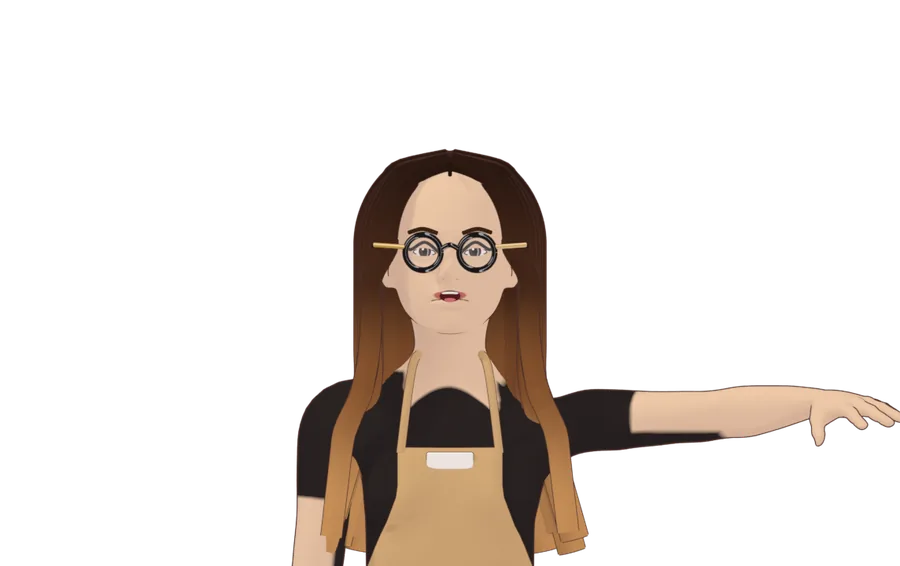
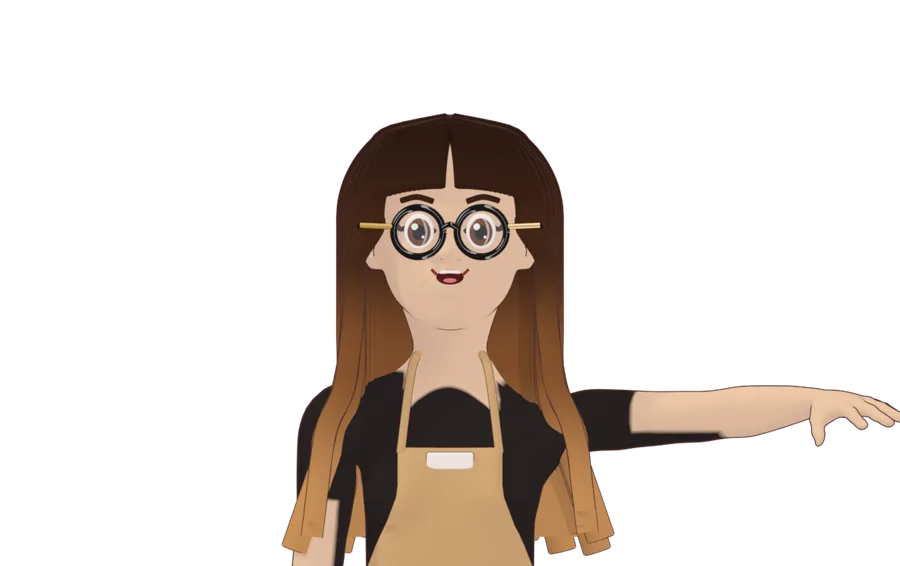
Helper: cartoon face (big eyes, bangs, wide smile, shorter chin), cleaner mouth and glasses (#18)

Changed region(s): [[0.3111, 0.1802, 0.6844, 0.9912]]

diff --git a/index.html b/index.html
@@ -16,16 +16,16 @@
 <link rel="icon" href="assets/favicon-64.png" type="image/png" sizes="64x64">
 <link rel="apple-touch-icon" href="assets/apple-touch-icon.png">
 <!-- the fonts are inside the game (issue #27), so it looks the same offline -->
-<link rel="stylesheet" href="assets/fonts/fonts.css?v=32">
-<link rel="stylesheet" href="style.css?v=32">
-<link rel="stylesheet" href="css/scene.css?v=32">
-<link rel="stylesheet" href="css/fx.css?v=32">
-<link rel="stylesheet" href="css/views.css?v=32">
-<link rel="stylesheet" href="css/bar.css?v=32">
-<link rel="stylesheet" href="css/theme.css?v=32">
-<link rel="stylesheet" href="css/helper.css?v=32">
-<link rel="stylesheet" href="css/stage.css?v=32">
-<link rel="stylesheet" href="css/intro.css?v=32">
+<link rel="stylesheet" href="assets/fonts/fonts.css?v=33">
+<link rel="stylesheet" href="style.css?v=33">
+<link rel="stylesheet" href="css/scene.css?v=33">
+<link rel="stylesheet" href="css/fx.css?v=33">
+<link rel="stylesheet" href="css/views.css?v=33">
+<link rel="stylesheet" href="css/bar.css?v=33">
+<link rel="stylesheet" href="css/theme.css?v=33">
+<link rel="stylesheet" href="css/helper.css?v=33">
+<link rel="stylesheet" href="css/stage.css?v=33">
+<link rel="stylesheet" href="css/intro.css?v=33">
 </head>
 <body>
 
@@ -81,8 +81,8 @@
     <div class="ticketslot" id="sceneTicket"></div>
   </div>
   <!-- upgrades on show (issue #21): comfy stools on the guests' side of the bar, the big tip jar on it -->
-  <div class="upg-show stools" aria-hidden="true"><img class="spr" src="assets/models/stool.webp?v=32" width="84" height="180" alt="" draggable="false"><img class="spr" src="assets/models/stool.webp?v=32" width="84" height="180" alt="" draggable="false"></div>
-  <img class="upg-show tipjar spr" src="assets/models/tipjar.webp?v=32" width="109" height="160" alt="" aria-hidden="true" draggable="false">
+  <div class="upg-show stools" aria-hidden="true"><img class="spr" src="assets/models/stool.webp?v=33" width="84" height="180" alt="" draggable="false"><img class="spr" src="assets/models/stool.webp?v=33" width="84" height="180" alt="" draggable="false"></div>
+  <img class="upg-show tipjar spr" src="assets/models/tipjar.webp?v=33" width="109" height="160" alt="" aria-hidden="true" draggable="false">
   <!-- the finished drink waits on a tray on the bar; drop it on the customer (#custZone follows them) -->
   <div class="cust-tray" id="custTray"><div class="slot cupslot handslot" id="slotHand"></div></div>
   <div class="cust-zone" id="custZone" data-drop="customer" hidden></div>
@@ -235,8 +235,8 @@
       <div class="cupinfo" id="cupInfo"></div>
       <!-- the recipe shop's drinks (issue #21): on the bench once bought -->
       <div class="extras" id="extras">
-        <div class="obj icebucket" id="iceObj" role="button" tabindex="0" data-drag="ice"><img class="spr" src="assets/models/icebucket.webp?v=32" width="191" height="220" alt="" draggable="false"><small class="objtag" data-t="obj.ice">Ice</small></div>
-        <div class="obj cocoatin" id="cocoaObj" role="button" tabindex="0" data-drag="cocoa"><img class="spr" src="assets/models/cocoatin.webp?v=32" width="119" height="172" alt="" draggable="false"><small class="objtag" data-t="obj.cocoa">Cocoa</small></div>
+        <div class="obj icebucket" id="iceObj" role="button" tabindex="0" data-drag="ice"><img class="spr" src="assets/models/icebucket.webp?v=33" width="191" height="220" alt="" draggable="false"><small class="objtag" data-t="obj.ice">Ice</small></div>
+        <div class="obj cocoatin" id="cocoaObj" role="button" tabindex="0" data-drag="cocoa"><img class="spr" src="assets/models/cocoatin.webp?v=33" width="119" height="172" alt="" draggable="false"><small class="objtag" data-t="obj.cocoa">Cocoa</small></div>
       </div>
     </section>
 
@@ -343,19 +343,19 @@
 <!-- phones held upright (issue #14): the game is played sideways -->
 <div class="rotate-ov" id="rotateOv"><div><div class="phone" aria-hidden="true"></div><p data-t="rotate">Turn your phone sideways to play</p></div></div>
 
-<script src="js/intro.js?v=32"></script>
-<script src="js/util.js?v=32"></script>
-<script src="js/economy.js?v=32"></script>
-<script src="js/i18n.js?v=32"></script>
-<script src="js/audio.js?v=32"></script>
-<script src="js/recipe.js?v=32"></script>
-<script src="js/render.js?v=32"></script>
-<script src="js/scene.js?v=32"></script>
-<script src="js/fx.js?v=32"></script>
-<script src="js/station.js?v=32"></script>
-<script src="js/camera.js?v=32"></script>
-<script src="js/helper.js?v=32"></script>
-<script src="js/tutorial.js?v=32"></script>
-<script src="js/main.js?v=32"></script>
+<script src="js/intro.js?v=33"></script>
+<script src="js/util.js?v=33"></script>
+<script src="js/economy.js?v=33"></script>
+<script src="js/i18n.js?v=33"></script>
+<script src="js/audio.js?v=33"></script>
+<script src="js/recipe.js?v=33"></script>
+<script src="js/render.js?v=33"></script>
+<script src="js/scene.js?v=33"></script>
+<script src="js/fx.js?v=33"></script>
+<script src="js/station.js?v=33"></script>
+<script src="js/camera.js?v=33"></script>
+<script src="js/helper.js?v=33"></script>
+<script src="js/tutorial.js?v=33"></script>
+<script src="js/main.js?v=33"></script>
 </body>
 </html>

diff --git a/sw.js b/sw.js
@@ -2,18 +2,18 @@
    too. The page itself is fetched from the network first (so a new version shows up at once) and from the cache when
    offline; everything else comes from the cache and is fetched only the first time. Bump VERSION with every release
    (together with the ?v= on the links in index.html): the old cache is then dropped. */
-const VERSION = 'cafe-cb-32';
+const VERSION = 'cafe-cb-33';
 const CORE = [
-  './', 'index.html', 'manifest.webmanifest', 'style.css?v=32',
-  'css/scene.css?v=32', 'css/fx.css?v=32', 'css/views.css?v=32', 'css/bar.css?v=32', 'css/theme.css?v=32', 'css/helper.css?v=32', 'css/stage.css?v=32', 'css/intro.css?v=32',
-  'js/intro.js?v=32', 'js/util.js?v=32', 'js/economy.js?v=32', 'js/i18n.js?v=32', 'js/audio.js?v=32', 'js/recipe.js?v=32', 'js/render.js?v=32', 'js/scene.js?v=32', 'js/fx.js?v=32',
-  'js/station.js?v=32', 'js/camera.js?v=32', 'js/helper.js?v=32', 'js/tutorial.js?v=32', 'js/main.js?v=32',
+  './', 'index.html', 'manifest.webmanifest', 'style.css?v=33',
+  'css/scene.css?v=33', 'css/fx.css?v=33', 'css/views.css?v=33', 'css/bar.css?v=33', 'css/theme.css?v=33', 'css/helper.css?v=33', 'css/stage.css?v=33', 'css/intro.css?v=33',
+  'js/intro.js?v=33', 'js/util.js?v=33', 'js/economy.js?v=33', 'js/i18n.js?v=33', 'js/audio.js?v=33', 'js/recipe.js?v=33', 'js/render.js?v=33', 'js/scene.js?v=33', 'js/fx.js?v=33',
+  'js/station.js?v=33', 'js/camera.js?v=33', 'js/helper.js?v=33', 'js/tutorial.js?v=33', 'js/main.js?v=33',
   'assets/favicon-64.png', 'assets/icon-192.png', 'assets/icon-512.png', 'assets/icon-512-any.png', 'assets/apple-touch-icon.png',
   'assets/cover/logo-menu.webp', 'assets/intro/cup.webp', 'assets/intro/text.webp',
   ...['talk', 'wave', 'cheer', 'warn'].map(f => `assets/helper/${f}.webp`), ...['talk', 'wave', ...['L', 'R'].flatMap(x => ['down', 'level', 'up'].map(h => `point-${x}-${h}`))].map(f => `assets/helper/${f}-open.webp`),
   ...['L', 'R'].flatMap(x => ['down', 'level', 'up'].map(h => `assets/helper/point-${x}-${h}.webp`)),
   'assets/backbar.svg', 'assets/bg-seating.svg', 'assets/bg-wall.svg',
-  'assets/fonts/fonts.css?v=32', ...['courier-prime-400', 'courier-prime-700', 'grandstander-500-800', 'nunito-400-800', 'pacifico-400']
+  'assets/fonts/fonts.css?v=33', ...['courier-prime-400', 'courier-prime-700', 'grandstander-500-800', 'nunito-400-800', 'pacifico-400']
     .flatMap(f => [`assets/fonts/${f}-latin.woff2`, `assets/fonts/${f}-latin-ext.woff2`]),
   ...['bell', 'bin', 'binlid', 'cup-L', 'cup-M', 'cup-S', 'cust-beard', 'cust-collar-round', 'cust-collar-v', 'cust-hair-bun-front',
     'cust-hair-curly-back', 'cust-hair-curly-front', 'cust-hair-long-back', 'cust-hair-long-front', 'cust-hair-short-front',

diff --git a/tools/blender/helper_style.py b/tools/blender/helper_style.py
@@ -79,12 +79,14 @@ def body_A():
 
 
 def eyeball(name, c, r):
-    """a whole eyeball sitting in a MakeHuman eye socket: the iris is on its front"""
-    sphere(name + 'w', r, toon('sclera', '#fbf7f2', lo=0.85), loc=c, outline=0.0, segs=32)
-    f = c.y - r * 0.93
-    sphere(name + 'i', 1.0, toon('iris', '#5a3420', 'gloss', lo=0.7), loc=(c.x, f, c.z), scale=(r * 0.56, r * 0.14, r * 0.56), outline=0.0)
-    sphere(name + 'p', 1.0, toon('pupil', '#1a0f0b', lo=1.0), loc=(c.x, f - r * 0.08, c.z), scale=(r * 0.27, r * 0.1, r * 0.27), outline=0.0)
-    sphere(name + 'h', 1.0, toon('hi', '#ffffff', 'flat', lo=1.0), loc=(c.x - r * 0.18, f - r * 0.16, c.z + r * 0.2), scale=(r * 0.1, r * 0.04, r * 0.1), outline=0.0)
+    """a big cartoon eye on the face (c is on the skin): a tall white oval, a large dark-brown iris, a pupil, two catch lights"""
+    ry = r * 0.28
+    sphere(name + 'w', 1.0, toon('sclera', '#fffaf4', lo=0.92), loc=(c.x, c.y - 0.1, c.z), scale=(r * 1.05, ry, r * 1.25), outline=0.0, segs=32)
+    f = c.y - 0.1 - ry * 0.85
+    sphere(name + 'i', 1.0, toon('iris', '#7a4528', 'gloss', lo=0.8), loc=(c.x, f, c.z - r * 0.08), scale=(r * 0.82, ry * 0.5, r * 0.98), outline=0.0)
+    sphere(name + 'p', 1.0, toon('pupil', '#1b0f0b', lo=1.0), loc=(c.x, f - ry * 0.25, c.z - r * 0.1), scale=(r * 0.5, ry * 0.4, r * 0.6), outline=0.0)
+    sphere(name + 'h', 1.0, toon('hi', '#ffffff', 'flat', lo=1.0), loc=(c.x - r * 0.3, f - ry * 0.5, c.z + r * 0.3), scale=(r * 0.24, ry * 0.2, r * 0.24), outline=0.0)
+    sphere(name + 'h2', 1.0, toon('hi', '#ffffff', 'flat', lo=1.0), loc=(c.x + r * 0.28, f - ry * 0.5, c.z - r * 0.42), scale=(r * 0.1, ry * 0.2, r * 0.1), outline=0.0)
 
 
 def eye(name, x, z, y, r, look=(0, 0)):
@@ -167,13 +169,20 @@ def body_B():
     for i in body_ids:
         P[i] = armdown(P[i])
     # a slightly bigger head (cute proportions), grown from the neck
-    hk = 1.1
+    hk = 1.3
     for i in body_ids:
         p = P[i]
         if p.z > neck.z + 2:
             t = min(1.0, (p.z - neck.z - 2) / 4.0)
             f = 1 + (hk - 1) * t
-            P[i] = Vector((p.x * f * (1 + 0.09 * t), (p.y - neck.y) * f + neck.y, (p.z - neck.z) * f + neck.z))
+            P[i] = Vector((p.x * f * (1 + 0.14 * t), (p.y - neck.y) * f + neck.y, (p.z - neck.z) * f + neck.z))
+    # a shorter lower face: points between the neck and the eyes move up toward the eyes, so the chin is closer
+    ezs = neck.z + (eyeL.z - neck.z) * hk
+    for i in body_ids:
+        p = P[i]
+        if neck.z + 2 < p.z < ezs:
+            u = (p.z - neck.z - 2) / (ezs - neck.z - 2); u = u * u * (3 - 2 * u)
+            P[i] = Vector((p.x, p.y, p.z + 0.16 * (ezs - p.z) * u))
     me = bpy.data.meshes.new('mh'); bm = bmesh.new()
     idx = {}
     for i in sorted(body_ids):
@@ -201,20 +210,24 @@ def body_B():
     # eyes in the sockets (scaled the same way as the head)
     def headpt(p):
         t = min(1.0, max(0.0, (p.z - neck.z - 2) / 4.0)); f = 1 + (hk - 1) * t
-        return Vector((p.x * f * (1 + 0.09 * t), (p.y - neck.y) * f + neck.y, (p.z - neck.z) * f + neck.z))
+        return Vector((p.x * f * (1 + 0.14 * t), (p.y - neck.y) * f + neck.y, (p.z - neck.z) * f + neck.z))
     eL, eR = headpt(eyeL), headpt(eyeR)
     r = 1.22 * hk
     bvh = BVHTree.FromObject(o, bpy.context.evaluated_depsgraph_get())
     lid = toon('lid', '#3a2318', lo=1.0); brow = toon('brow', '#3f2619', lo=0.8)
     for s, e in ((1, eL), (-1, eR)):
-        eyeball("eye" + str(s), e, 1.4 * hk)
         def onface(x, z, off=0.25):
             hit = bvh.ray_cast(Vector((x, -60, z)), Vector((0, 1, 0)))
             return (x, (hit[0].y if hit[0] else e.y - 1) - off, z)
-        tube('lid', smooth_curve([onface(e.x - s * 1.7 * hk, e.z - 0.1, 0.05), onface(e.x, e.z + 1.15 * hk, 0.15), onface(e.x + s * 1.75 * hk, e.z + 0.25, 0.1), onface(e.x + s * 2.3 * hk, e.z + 0.75, 0.1)], 6), 0.22, lid, outline=0)
-        tube('brow', smooth_curve([onface(e.x - s * 1.7, e.z + 2.5 + BROW), onface(e.x + s * 0.3, e.z + 3.1 + BROW * 0.5), onface(e.x + s * 2.2, e.z + 2.6 - BROW * 0.3)], 6), 0.3, brow, outline=0)
+        ring = [bvh.ray_cast(Vector((e.x + 2.6 * math.cos(a), -60, e.z + 2.6 * math.sin(a))), Vector((0, 1, 0)))[0] for a in [k * math.pi / 4 for k in range(8)]]
+        fy_ = min(h.y for h in ring if h) if any(ring) else e.y
+        eyeball("eye" + str(s), Vector((e.x, fy_ - 0.15, e.z)), 1.95)
+        tube('lid', smooth_curve([onface(e.x - s * 1.7 * hk, e.z - 0.1, 0.05), onface(e.x, e.z + 1.15 * hk, 0.15), onface(e.x + s * 1.75 * hk, e.z + 0.25, 0.1), onface(e.x + s * 2.3 * hk, e.z + 0.75, 0.1)], 6), 0.34, lid, outline=0)
+        tube('brow', smooth_curve([onface(e.x - s * 1.9, e.z + 4.1 + BROW), onface(e.x + s * 0.3, e.z + 4.7 + BROW * 0.5), onface(e.x + s * 2.4, e.z + 4.2 - BROW * 0.3)], 6), 0.42, brow, outline=0)
         bl = onface(s * (abs(e.x) + 1.3), e.z - 3.6, -0.05)
-        sphere('blush', 1.0, toon('blush', '#f2948a', alpha=0.0, edge=0.45), loc=bl, scale=(1.5, 0.22, 0.85), outline=0)
+        sphere('blush', 1.0, toon('blush', '#f2948a', alpha=0.0, edge=0.45), loc=bl, scale=(2.1, 0.22, 1.2), outline=0)
+    cx_, cy_, cz_ = onface(0, mz - 1.6, 0.0)
+    sphere('chinpatch', 1.0, toon('chinpatch', SKIN, lo=0.72), loc=(cx_, cy_ + 0.05, cz_ + 0.2), scale=(3.3, 0.25, 1.4), outline=0)
     mouth(onface, mz)
     # landmarks for the shared parts
     zs = [P[i].z for i in body_ids if P[i].z > neck.z]
@@ -236,19 +249,22 @@ BROW = 0.0        # tilts the inner ends of the brows up (worried) or down
 
 
 def mouth(onface, mz):
-    ink = toon('lipline', '#a9524c', lo=0.9)
-    if MOUTH == 'smile':       # a soft closed smile along the lips
-        tube('smile', smooth_curve([onface(-1.55, mz + 0.3, 0.05), onface(0, mz - 0.12, 0.12), onface(1.55, mz + 0.3, 0.05)], 8), 0.15, ink, outline=0)
-    elif MOUTH == 'open':      # an open, laughing mouth with a little tongue
-        x, y, z = onface(0, mz - 0.2, -0.05)
-        sphere('mouth', 1.0, toon('mouthin', '#5b1d22', lo=1.0), loc=(x, y + 0.05, z + 0.1), scale=(1.45, 0.3, 0.8), outline=0)
-        sphere('teeth', 1.0, toon('teeth', '#fbf6ee', lo=0.9), loc=(x, y - 0.12, z + 0.5), scale=(1.15, 0.12, 0.22), outline=0)
-        sphere('tongue', 1.0, toon('tongue', '#e07a7a', lo=0.8), loc=(x, y - 0.1, z - 0.35), scale=(0.8, 0.16, 0.32), outline=0)
+    ink = toon('lipline', '#8a3a3a', lo=0.9)
+    if MOUTH == 'smile':       # a wide, happy curve
+        tube('smile', smooth_curve([onface(-2.3, mz + 0.55, 0.05), onface(-1.0, mz - 0.1, 0.1), onface(1.0, mz - 0.1, 0.1), onface(2.3, mz + 0.55, 0.05)], 10), 0.24, ink, outline=0)
+    elif MOUTH == 'open':      # an open laugh: a dark D with teeth and a tongue
+        x, y, z = onface(0, mz - 0.1, -0.08)
+        sphere('mouth', 1.0, toon('mouthin', '#5b1d22', lo=1.0), loc=(x, y + 0.05, z - 0.1), scale=(1.9, 0.3, 1.05), outline=0)
+        sphere('teeth', 1.0, toon('teeth', '#fffaf2', lo=0.95), loc=(x, y - 0.1, z + 0.55), scale=(1.55, 0.12, 0.34), outline=0)
+        sphere('tongue', 1.0, toon('tongue', '#ec8484', lo=0.85), loc=(x, y - 0.12, z - 0.5), scale=(1.0, 0.16, 0.38), outline=0)
+        tube('corners', smooth_curve([onface(-2.5, mz + 0.8, 0.05), onface(-1.9, mz + 0.2, 0.08)], 4), 0.2, ink, outline=0)
+        tube('corners', smooth_curve([onface(2.5, mz + 0.8, 0.05), onface(1.9, mz + 0.2, 0.08)], 4), 0.2, ink, outline=0)
     elif MOUTH == 'o':         # a small worried "o"
-        x, y, z = onface(0, mz - 0.1, -0.05)
-        sphere('mouth', 1.0, toon('mouthin', '#5b1d22', lo=1.0), loc=(x, y + 0.05, z), scale=(0.75, 0.3, 0.7), outline=0)
+        x, y, z = onface(0, mz - 0.1, -0.08)
+        sphere('mouth', 1.0, toon('mouthin', '#5b1d22', lo=1.0), loc=(x, y + 0.05, z), scale=(0.95, 0.3, 0.9), outline=0)
+        sphere('tongue', 1.0, toon('tongue', '#ec8484', lo=0.85), loc=(x, y - 0.1, z - 0.3), scale=(0.55, 0.14, 0.3), outline=0)
     else:                      # a flat line
-        tube('flat', smooth_curve([onface(-1.3, mz, 0.05), onface(0, mz - 0.05, 0.1), onface(1.3, mz, 0.05)], 6), 0.15, ink, outline=0)
+        tube('flat', smooth_curve([onface(-1.5, mz, 0.05), onface(0, mz - 0.05, 0.1), onface(1.5, mz, 0.05)], 6), 0.2, ink, outline=0)
 
 
 def make_rig(o, order, P0, faces, armdown):
@@ -351,7 +367,7 @@ def body_mat(sh, mz, lip_y, neck_z):
     bare_arm = op('MAXIMUM', bare_arm, step(hn.outputs['Fac'], 0.5, 0.2))
     top = op('MULTIPLY', below, op('SUBTRACT', 1.0, bare_arm))
     # lips: an ellipse on the front of the face
-    ex = op('DIVIDE', X, 2.25); ez = op('DIVIDE', op('SUBTRACT', Z, mz), 0.62)
+    ex = op('DIVIDE', X, 1.9); ez = op('DIVIDE', op('SUBTRACT', Z, mz), 0.5)
     d = op('ADD', op('MULTIPLY', ex, ex), op('MULTIPLY', ez, ez))
     lips = op('MULTIPLY', op('SUBTRACT', 1.0, step(d, 1.0, 0.15)), op('SUBTRACT', 1.0, step(Y, lip_y, 0.3)))
     def mix(fac, a, b):
@@ -363,7 +379,7 @@ def body_mat(sh, mz, lip_y, neck_z):
                 L.new(v, n.inputs[k])
         return n.outputs[0]
     c = mix(top, srgb(SKIN) + (1,), srgb(TOP) + (1,))
-    c = mix(lips, c, srgb('#cf6f6a') + (1,))
+    c = mix(lips, c, srgb('#ec9a90') + (1,))
     L.new(c, mul.inputs[2])
     return m
 
@@ -411,9 +427,24 @@ def hair(H):
                 y = y0 + 0.08 * drop
             pts.append((x, y, z))
         locks.append(tube('lock', smooth_curve(pts, 4), 1.45 if front else 1.9, m, outline=0.1))
+    # bangs: locks from the part, over the forehead, swept to the sides above the brows
+    for j in range(24):
+        u = (j + 0.5) / 24
+        sd = -1 if u < 0.5 else 1
+        bb = (u if u < 0.5 else 1 - u) * 2
+        theta = sd * (0.1 + bb * 0.75)
+        z_end = H['eye_z'] + 6.2 - 1.4 * bb * bb
+        pts = []
+        for t in range(9):
+            z = top + 0.3 - t * (top + 0.3 - z_end) / 8
+            x, y = head_surf(theta, z, 0.85 + 0.15 * bb)
+            if t == 0:
+                x = sd * 0.3
+            pts.append((x, y, z))
+        tube('bang', smooth_curve(pts, 4), 1.0, m, outline=0.08)
     # a cap under the locks so no scalp shows between them
-    cap = sphere('cap', 1.0, m, loc=(0, cy + 0.6, cz + 0.2), scale=(rx + 0.7, ry + 0.9, top - cz + 0.7), outline=0.1, segs=64)
-    M.keep(cap, lambda x, y, z: (z > H['eye_z'] + 6.0 - 0.07 * x * x or y > cy - 1.0) and z > H['eye_z'] - 1.5)
+    cap = sphere('cap', 1.0, m, loc=(0, cy - 0.5, cz + 0.2), scale=(rx + 0.9, ry + 2.3, top - cz + 0.9), outline=0.1, segs=64)
+    M.keep(cap, lambda x, y, z: (z > H['eye_z'] + 7.4 - 0.1 * x * x or y > cy - 1.0) and z > H['eye_z'] - 1.5)
     # long hair hanging down the back, seen between the neck and the side locks
     back = bpy.data.meshes.new('back'); bm = bmesh.new(); rows = []
     for zi in range(11):
@@ -433,18 +464,18 @@ def glasses(H):
     ez, ex, fy = H['eye_z'], H['eye_x'], H['face_y']
     fr = toon('frame', FRAMEC, 'gloss', lo=0.8); gold = toon('gold', GOLD, 'metal')
     lens = toon('lens', '#dfe9ee', 'glass', alpha=0.08, edge=0.35)
-    y = fy - 1.1
-    R = 2.45
+    y = fy - 1.5
+    R = 3.4
     for s in (-1, 1):
-        cx = s * (ex + 0.25)
+        cx = s * (ex + 0.1)
         ring = [(cx + R * math.cos(a), y + 0.25 * abs(math.cos(a)), ez - 0.15 + R * 1.0 * math.sin(a)) for a in [i * 2 * math.pi / 40 for i in range(41)]]
-        tube('rim', ring, 0.36, fr, outline=0.06)
-        disc = sphere('lens', 1.0, lens, loc=(cx, y + 0.15, ez - 0.15), scale=(R, 0.12, R), outline=0)
-        # temples back to the ears, gold near the hinge
-        hx = s * (ex + 0.25 + R)
-        tube('hinge', [(hx, y + 0.2, ez + 0.6), (s * (H['rx'] + 0.2), y + 2.4, ez + 0.9)], 0.3, gold, outline=0.04)
-        tube('temple', [(s * (H['rx'] + 0.2), y + 2.4, ez + 0.9), (s * (H['rx'] + 0.5), H.get('cy', 0.3) + 1.0, ez + 0.4)], 0.3, fr, outline=0.04)
-    tube('bridge', smooth_curve([(-ex + R - 0.1, y, ez + 0.4), (0, y - 0.25, ez + 0.9), (ex - R + 0.1, y, ez + 0.4)], 6), 0.3, fr, outline=0.05)
+        tube('rim', ring, 0.45, fr, outline=0.06)
+        sphere('lens', 1.0, lens, loc=(cx, y + 0.15, ez - 0.15), scale=(R, 0.12, R), outline=0)
+        # short gold hinges; the temples run back into the hair
+        hx = s * (ex + 0.1 + R)
+        tube('hinge', [(hx, y + 0.2, ez + 0.6), (s * (H['rx'] - 0.3), y + 1.4, ez + 0.8)], 0.34, gold, outline=0.04)
+        tube('temple', [(s * (H['rx'] - 0.3), y + 1.4, ez + 0.8), (s * (H['rx'] + 0.2), H.get('cy', 0.3) + 0.5, ez + 0.4)], 0.34, fr, outline=0.04)
+    tube('bridge', smooth_curve([(-ex + R - 0.1, y, ez + 0.4), (0, y - 0.3, ez + 0.9), (ex - R + 0.1, y, ez + 0.4)], 6), 0.36, fr, outline=0.05)
 
 
 BODY = []
@@ -528,7 +559,9 @@ def build(name):
     M.reset()
     MOUTH, BROW, arms = POSES[name]
     H = body_B()
-    hair(H); glasses(H); apron(H)
+    hair(H)
+    if not os.environ.get('NOGLASS'): glasses(H)
+    apron(H)
     for side, kw in arms:
         raise_arm(side, **kw)
     render(name, H)
